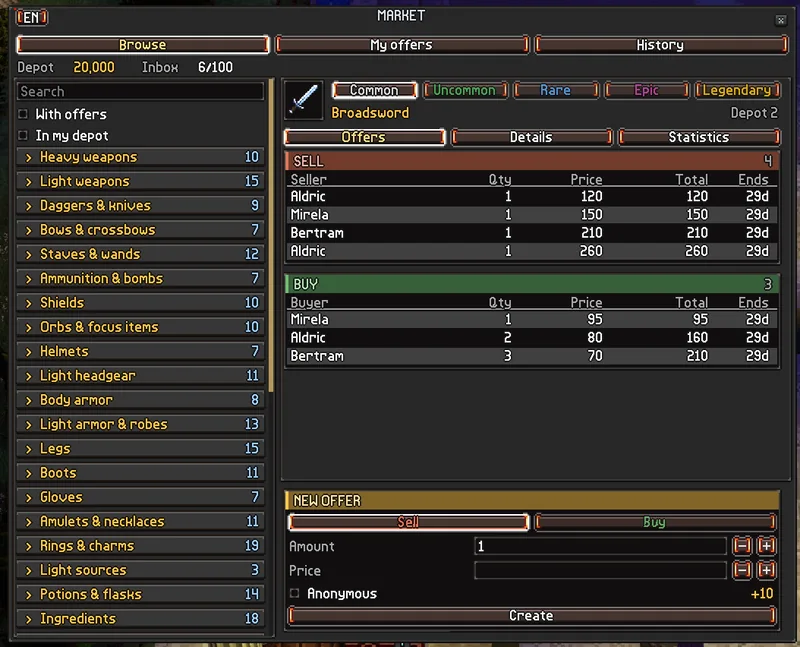
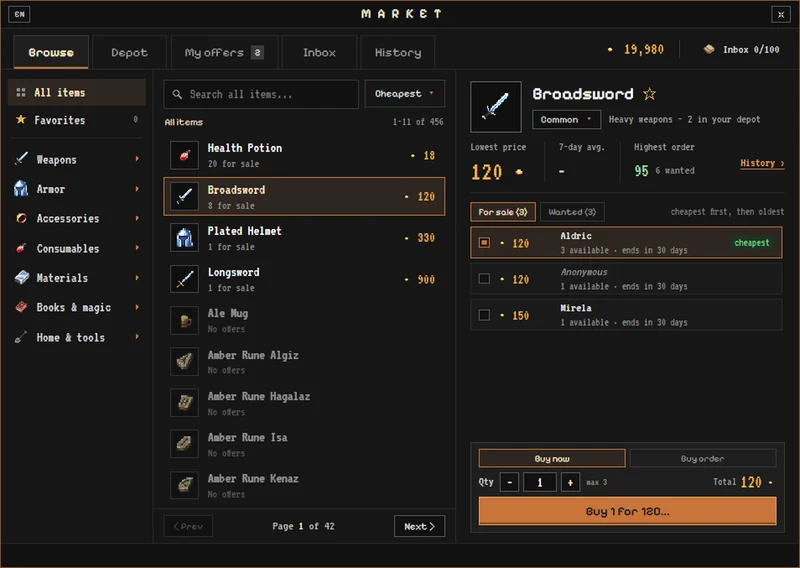
Client 0.0.20: the new Market in the showcase, fallback numbers, highlights and news

diff --git a/src/index.html b/src/index.html
@@ -52,7 +52,7 @@
           <a href="https://github.com/launcher-client-dist/dist/releases/latest" target="_blank" rel="noopener" class="hidden sm:flex items-center gap-2 px-3 py-1.5 rounded-full bg-panel border border-border text-xs font-medium hover:border-gold/50 transition-colors" title="Latest client release" data-i18n-attr="title:pill.title">
             <span class="w-2.5 h-2.5 rounded-full bg-success shrink-0" aria-hidden="true"></span>
             <span class="text-txt-primary font-semibold" data-i18n="pill.client">Client</span>
-            <span class="text-txt-muted font-mono">v<span data-rel="clientVersion">0.0.19</span></span>
+            <span class="text-txt-muted font-mono">v<span data-rel="clientVersion">0.0.20</span></span>
           </a>
 
           <button type="button" id="lang-toggle" class="px-2.5 py-2 rounded-lg bg-panel border border-border text-xs font-mono font-semibold text-txt-secondary hover:text-txt-primary hover:border-gold/50 transition-colors" aria-label="Mudar para português" data-i18n-attr="aria-label:lang.switch" data-i18n="lang.code">PT</button>
@@ -82,7 +82,7 @@
 
         <div class="mt-5 p-3 rounded-lg bg-panel border border-border flex items-center justify-between">
           <span class="text-xs text-txt-secondary" data-i18n="pill.title">Latest client release</span>
-          <span class="flex items-center gap-1.5 text-xs font-medium"><span class="w-2.5 h-2.5 rounded-full bg-success" aria-hidden="true"></span><span class="font-mono text-txt-primary">v<span data-rel="clientVersion">0.0.19</span></span></span>
+          <span class="flex items-center gap-1.5 text-xs font-medium"><span class="w-2.5 h-2.5 rounded-full bg-success" aria-hidden="true"></span><span class="font-mono text-txt-primary">v<span data-rel="clientVersion">0.0.20</span></span></span>
         </div>
 
         <nav class="mt-6 flex flex-col gap-1.5" aria-label="Menu" data-i18n-attr="aria-label:menu.label">
@@ -92,7 +92,7 @@
           <a href="#media" data-close-drawer class="w-full px-4 py-3 rounded-lg font-medium text-txt-primary hover:bg-panel hover:text-gold transition-colors flex items-center justify-between"><span data-i18n="nav.media">Media</span><span class="text-xs text-txt-muted" aria-hidden="true">→</span></a>
           <a href="#how-to-play" data-close-drawer class="w-full px-4 py-3 rounded-lg font-medium text-txt-primary hover:bg-panel hover:text-gold transition-colors flex items-center justify-between"><span data-i18n="nav.how">How to play</span><span class="text-xs text-txt-muted" aria-hidden="true">→</span></a>
           <a href="#requirements" data-close-drawer class="w-full px-4 py-3 rounded-lg font-medium text-txt-primary hover:bg-panel hover:text-gold transition-colors flex items-center justify-between"><span data-i18n="nav.req">Requirements</span><span class="text-xs text-txt-muted" aria-hidden="true">→</span></a>
-          <a href="https://github.com/launcher-client-dist/dist/releases" target="_blank" rel="noopener" class="w-full px-4 py-3 rounded-lg font-medium text-txt-primary hover:bg-panel hover:text-gold transition-colors flex items-center justify-between"><span data-i18n="nav.patches">Patch notes</span><span class="px-2 py-0.5 text-[10px] rounded bg-gold/20 text-gold font-mono">v<span data-rel="clientVersion">0.0.19</span></span></a>
+          <a href="https://github.com/launcher-client-dist/dist/releases" target="_blank" rel="noopener" class="w-full px-4 py-3 rounded-lg font-medium text-txt-primary hover:bg-panel hover:text-gold transition-colors flex items-center justify-between"><span data-i18n="nav.patches">Patch notes</span><span class="px-2 py-0.5 text-[10px] rounded bg-gold/20 text-gold font-mono">v<span data-rel="clientVersion">0.0.20</span></span></a>
         </nav>
       </div>
 
@@ -116,7 +116,7 @@
           <!-- Left: pitch + download -->
           <div class="lg:col-span-5 min-w-0">
             <div class="inline-flex items-center gap-2 px-2.5 py-1 rounded bg-teal/15 border border-teal/40 text-teal font-mono text-xs mb-4">
-              <span>● <span data-i18n="hero.badge">CLIENT</span> v<span data-rel="clientVersion">0.0.19</span> · <span data-i18n="hero.badge2">100% FREE</span></span>
+              <span>● <span data-i18n="hero.badge">CLIENT</span> v<span data-rel="clientVersion">0.0.20</span> · <span data-i18n="hero.badge2">100% FREE</span></span>
             </div>
             <h1 class="type-h1 text-3xl sm:text-5xl text-txt-primary leading-tight mb-4" data-i18n="hero.title">YOUR ADVENTURE AWAITS IN OPENGEA.</h1>
             <p class="text-sm sm:text-base text-txt-secondary mb-6 leading-relaxed" data-i18n-html="hero.lead">Download the <span data-rel="launcherSize">66 MB</span> Opengea launcher: it installs the Opengea client, keeps it on the latest build and verifies your files. No .NET install, no admin rights.</p>
@@ -128,16 +128,16 @@
             <!-- Latest patch highlights -->
             <div class="rounded-xl bg-panel border border-border p-4 space-y-2.5 text-xs">
               <div class="font-mono uppercase text-gold font-semibold flex items-center justify-between gap-3">
-                <span data-i18n="patch.title">Latest in v0.0.19</span>
+                <span data-i18n="patch.title">Latest in v0.0.20</span>
                 <a href="https://github.com/launcher-client-dist/dist/releases" target="_blank" rel="noopener" class="text-teal hover:underline normal-case shrink-0" data-i18n="patch.all">Full changelog →</a>
               </div>
               <div class="flex items-start gap-2 text-txt-secondary">
-                <span class="tag bg-warning/15 text-warning" data-i18n="tag.fixed">FIXED</span>
-                <span data-i18n="patch.1">Item pictures in the Market</span>
+                <span class="tag bg-success/15 text-success" data-i18n="tag.new">NEW</span>
+                <span data-i18n="patch.1">A brand-new Market</span>
               </div>
               <div class="flex items-start gap-2 text-txt-secondary">
                 <span class="tag bg-teal/15 text-teal" data-i18n="tag.improved">IMPROVED</span>
-                <span data-i18n="patch.2">Client connectivity and stability</span>
+                <span data-i18n="patch.2">Item information and interface polish</span>
               </div>
               <div class="flex items-start gap-2 text-txt-secondary">
                 <span class="tag bg-teal/15 text-teal" data-i18n="tag.improved">IMPROVED</span>
@@ -190,7 +190,7 @@
                   <div class="flex flex-col xl:flex-row xl:items-center justify-between gap-4 pt-2 border-t border-border">
                     <div class="flex-1 min-w-0">
                       <div class="flex items-start justify-between gap-3 text-xs font-mono mb-1.5">
-                        <span id="vg-status" class="text-txt-primary font-semibold min-w-0" aria-live="polite">Client 0.0.19 · Ready to play</span>
+                        <span id="vg-status" class="text-txt-primary font-semibold min-w-0" aria-live="polite">Client 0.0.20 · Ready to play</span>
                         <span class="text-success shrink-0" data-i18n="launcher.synced">100% verified</span>
                       </div>
                       <div class="w-full h-2.5 rounded-full bg-bg border border-border overflow-hidden" aria-hidden="true">
@@ -237,13 +237,13 @@
                 <p class="text-xs text-txt-secondary leading-relaxed" data-i18n="market.f4.text">You pay with the gold in your depot and collect in your inbox. A trade goes through whole or not at all.</p>
               </li>
             </ul>
-            <p class="mt-8 text-xs font-mono text-txt-muted" data-i18n-html="market.note">In client v<span data-rel="clientVersion">0.0.19</span> : stand at any depot and press Market in the top bar.</p>
+            <p class="mt-8 text-xs font-mono text-txt-muted" data-i18n-html="market.note">In client v<span data-rel="clientVersion">0.0.20</span> : stand at any depot and press Market in the top bar.</p>
           </div>
           <figure class="lg:col-span-7 min-w-0">
             <a href="assets/img/shot-market-full.webp" target="_blank" rel="noopener" class="block rounded-xl overflow-hidden border border-border shadow-card hover:border-gold/50 transition-colors">
-              <img src="assets/img/shot-market-800.webp" srcset="assets/img/shot-market-800.webp 800w, assets/img/shot-market-full.webp 1054w" sizes="(min-width: 1024px) 700px, 100vw" width="1054" height="852" loading="lazy" alt="The Market window: sell and buy offers for the Broadsword, the item categories and the new offer form." data-i18n-attr="alt:market.alt" class="w-full h-auto block" />
+              <img src="assets/img/shot-market-800.webp" srcset="assets/img/shot-market-800.webp 800w, assets/img/shot-market-full.webp 1240w" sizes="(min-width: 1024px) 700px, 100vw" width="1240" height="880" loading="lazy" alt="The Market window: the item list by category, the Broadsword with its offers and the buy panel." data-i18n-attr="alt:market.alt" class="w-full h-auto block" />
             </a>
-            <figcaption class="mt-3 text-xs text-txt-muted" data-i18n="market.caption">In game: the Broadsword's book, with four sellers and three buyers.</figcaption>
+            <figcaption class="mt-3 text-xs text-txt-muted" data-i18n="market.caption">In game: the Broadsword in Browse, with three offers and the buy panel.</figcaption>
           </figure>
         </div>
       </section>
@@ -267,13 +267,13 @@
             <article class="group relative rounded-xl bg-panel border border-border overflow-hidden shadow-card card-interactive flex flex-col justify-between">
               <div>
                 <div class="h-44 relative overflow-hidden border-b border-border">
-                  <img src="assets/img/shot-charselect-800.webp" width="800" height="450" loading="lazy" alt="" class="w-full h-full object-cover" />
+                  <img src="assets/img/shot-market-800.webp" width="800" height="568" loading="lazy" alt="" class="w-full h-full object-cover" />
                   <span class="absolute top-3 left-3 px-2.5 py-1 rounded-md border text-gold border-gold/40 bg-gold/10 text-[11px] font-semibold uppercase tracking-wider backdrop-blur-sm" data-i18n="cat.update">Update</span>
                 </div>
                 <div class="p-5 sm:p-6">
-                  <div class="text-xs font-mono text-txt-muted mb-2"><time datetime="2026-10-29">Oct 29, 2026</time> · <span data-i18n="news.client">Game client</span></div>
-                  <h3 class="type-h3 text-lg text-txt-primary mb-2 group-hover:text-gold transition-colors" data-i18n="news.1.title">Connection improvements</h3>
-                  <p class="text-sm text-txt-secondary" data-i18n="news.1.text">Client v0.0.18 brings general adjustments to connectivity and stability.</p>
+                  <div class="text-xs font-mono text-txt-muted mb-2"><time datetime="2026-10-30">Oct 30, 2026</time> · <span data-i18n="news.client">Game client</span></div>
+                  <h3 class="type-h3 text-lg text-txt-primary mb-2 group-hover:text-gold transition-colors" data-i18n="news.1.title">The new Market is here</h3>
+                  <p class="text-sm text-txt-secondary" data-i18n="news.1.text">Client v0.0.20 brings a brand-new Market: browse every item, buy from other players, place buy orders and sell your own, right from your depot.</p>
                 </div>
               </div>
               <div class="px-5 sm:px-6 pb-5 pt-2 flex items-center justify-between text-xs font-semibold text-teal">
@@ -372,7 +372,7 @@
                 <span class="type-h1 text-3xl text-border select-none" aria-hidden="true">02</span>
               </div>
               <h3 class="type-h3 text-lg text-txt-primary mb-2" data-i18n="how.2.title">2. Open it and install</h3>
-              <p class="text-sm text-txt-secondary" data-i18n-html="how.2.text">It installs itself for your user (no admin), then downloads client v<span data-rel="clientVersion">0.0.19</span> (<span data-rel="clientSize">488 MB</span>) and checks it against its SHA-256.</p>
+              <p class="text-sm text-txt-secondary" data-i18n-html="how.2.text">It installs itself for your user (no admin), then downloads client v<span data-rel="clientVersion">0.0.20</span> (<span data-rel="clientSize">662 MB</span>) and checks it against its SHA-256.</p>
             </li>
             <li class="rounded-xl bg-panel border border-border p-6 sm:p-8 relative">
               <div class="flex items-center justify-between mb-6">
@@ -427,11 +427,11 @@
           <div class="rounded-xl bg-panel border border-gold/40 p-6 sm:p-8 relative shadow-card">
             <div class="flex items-center justify-between gap-3 pb-4 mb-6 border-b border-border">
               <h3 class="type-h3 text-lg text-gold" data-i18n="req.client">Game client</h3>
-              <span class="px-2.5 py-1 rounded bg-gold/15 border border-gold/40 text-xs font-mono text-gold">v<span data-rel="clientVersion">0.0.19</span></span>
+              <span class="px-2.5 py-1 rounded bg-gold/15 border border-gold/40 text-xs font-mono text-gold">v<span data-rel="clientVersion">0.0.20</span></span>
             </div>
             <dl class="space-y-4 text-sm">
               <div class="flex justify-between gap-4"><dt class="text-txt-secondary" data-i18n="req.base">Game client</dt><dd class="text-txt-primary font-medium text-right" data-i18n="req.baseValue">Opengea 3.2.6</dd></div>
-              <div class="flex justify-between gap-4"><dt class="text-txt-secondary" data-i18n="req.download">Download</dt><dd class="text-txt-primary font-medium text-right" data-rel="clientSize">488 MB</dd></div>
+              <div class="flex justify-between gap-4"><dt class="text-txt-secondary" data-i18n="req.download">Download</dt><dd class="text-txt-primary font-medium text-right" data-rel="clientSize">662 MB</dd></div>
               <div class="flex justify-between gap-4"><dt class="text-txt-secondary" data-i18n="req.installed">Installed size</dt><dd class="text-txt-primary font-medium text-right" data-rel="clientInstalled">757 MB</dd></div>
               <div class="flex justify-between gap-4"><dt class="text-txt-secondary" data-i18n="req.free">Free space to install</dt><dd class="text-txt-primary font-medium text-right" data-i18n="req.freeValue">≈ 1.3 GB (during install)</dd></div>
               <div class="flex justify-between gap-4"><dt class="text-txt-secondary" data-i18n="req.updates">Updates</dt><dd class="text-txt-primary font-medium text-right" data-i18n="req.updatesValue">Automatic, through the launcher</dd></div>
@@ -450,7 +450,7 @@
           <div class="relative z-10 max-w-[640px]">
             <div class="inline-flex items-center gap-2 px-3 py-1 rounded-full bg-success/15 border border-success/40 text-success text-xs font-medium mb-4">
               <span class="w-2 h-2 rounded-full bg-success animate-pulse" aria-hidden="true"></span>
-              <span data-i18n-html="community.badge">Launcher v<span data-rel="launcherVersion">0.3.3</span> · Client v<span data-rel="clientVersion">0.0.19</span></span>
+              <span data-i18n-html="community.badge">Launcher v<span data-rel="launcherVersion">0.3.3</span> · Client v<span data-rel="clientVersion">0.0.20</span></span>
             </div>
             <h2 class="type-h2 text-2xl sm:text-4xl text-txt-primary mb-3" data-i18n="community.title">Follow every release on GitHub</h2>
             <p class="text-txt-secondary text-sm sm:text-base mb-8" data-i18n="community.text">Every launcher and client build is published openly on GitHub with its notes. The launcher picks up new versions by itself; this is where you can read what changed.</p>

diff --git a/src/app.js b/src/app.js
@@ -8,14 +8,14 @@
   const CLIENT_REPO = 'launcher-client-dist/dist';
   const DOWNLOAD_URL = `https://github.com/${LAUNCHER_REPO}/releases/latest/download/ClientLauncher.exe`;
 
-  // Fallback release data (launcher v0.3.3, client v0.0.19), refreshed from GitHub on load.
+  // Fallback release data (launcher v0.3.3, client v0.0.20), refreshed from GitHub on load.
   const release = {
     launcherVersion: '0.3.3',
     launcherBytes: 66403800,
[1 lines of base64/hex data omitted]
-    clientVersion: '0.0.19',
-    clientBytes: 488992178,
-    clientInstalledBytes: 761277575
+    clientVersion: '0.0.20',
+    clientBytes: 661944733,
+    clientInstalledBytes: 1127212816
   };
 
   /* ------------------------------------------------------------------ */
@@ -71,10 +71,10 @@
       'hero.badge2': '100% FREE',
       'hero.title': 'YOUR ADVENTURE AWAITS IN OPENGEA.',
       'hero.lead': 'Download the <span data-rel="launcherSize"></span> Opengea launcher: it installs the Opengea client, keeps it on the latest build and verifies your files. No .NET install, no admin rights.',
-      'patch.title': 'Latest in v0.0.19',
+      'patch.title': 'Latest in v0.0.20',
       'patch.all': 'Full changelog →',
-      'patch.1': 'Item pictures in the Market',
-      'patch.2': 'Client connectivity and stability',
+      'patch.1': 'A brand-new Market',
+      'patch.2': 'Item information and interface polish',
       'patch.3': 'General fixes and polish',
       'tag.new': 'NEW',
       'tag.improved': 'IMPROVED',
@@ -112,8 +112,8 @@
       'news.team': 'Opengea Team',
       'news.read': 'Read the release notes',
       'news.readLauncher': 'See launcher releases',
-      'news.1.title': 'Connection improvements',
-      'news.1.text': 'Client v0.0.18 brings general adjustments to connectivity and stability.',
+      'news.1.title': 'The new Market is here',
+      'news.1.text': 'Client v0.0.20 brings a brand-new Market: browse every item, buy from other players, place buy orders and sell your own, right from your depot.',
       'news.2.title': 'Launcher v0.3.3: pick your language',
       'news.2.text': 'A new language button at the top of the launcher switches the launcher and the game. It updates itself the next time it opens.',
       'news.3.title': 'An active community',
@@ -132,8 +132,8 @@
       'market.f4.title': 'Safe from start to finish',
       'market.f4.text': 'You pay with the gold in your depot and collect in your inbox. A trade goes through whole or not at all.',
       'market.note': 'In client v<span data-rel="clientVersion"></span>: stand at any depot and press Market in the top bar.',
-      'market.alt': 'The Market window: sell and buy offers for the Broadsword, the item categories and the new offer form.',
-      'market.caption': "In game: the Broadsword's book, with four sellers and three buyers.",
+      'market.alt': 'The Market window: the item list by category, the Broadsword with its offers and the buy panel.',
+      'market.caption': 'In game: the Broadsword in Browse, with three offers and the buy panel.',
       'media.eyebrow': 'Community & lab',
       'media.title': 'Media',
       'media.hint': 'Click any image to view it full size',
@@ -254,10 +254,10 @@
       'hero.badge2': '100% GRATUITO',
       'hero.title': 'SUA AVENTURA TE ESPERA EM OPENGEA.',
       'hero.lead': 'Baixe o launcher do Opengea (<span data-rel="launcherSize"></span>): ele instala o cliente Opengea, mantém tudo na versão mais recente e verifica seus arquivos. Sem instalar .NET, sem precisar de administrador.',
-      'patch.title': 'Novidades da v0.0.19',
+      'patch.title': 'Novidades da v0.0.20',
       'patch.all': 'Changelog completo →',
-      'patch.1': 'Imagens dos itens no Market',
-      'patch.2': 'Conectividade e estabilidade do cliente',
+      'patch.1': 'Um Market totalmente novo',
+      'patch.2': 'Informações dos itens e ajustes na interface',
       'patch.3': 'Correções gerais e ajustes',
       'tag.new': 'NOVO',
       'tag.improved': 'MELHORIA',
@@ -295,8 +295,8 @@
       'news.team': 'Equipe Opengea',
       'news.read': 'Ler as notas da versão',
       'news.readLauncher': 'Ver versões do launcher',
-      'news.1.title': 'Melhorias de conexão',
-      'news.1.text': 'O cliente v0.0.18 traz ajustes gerais na conectividade e na estabilidade do cliente.',
+      'news.1.title': 'O novo Market chegou',
+      'news.1.text': 'O cliente v0.0.20 traz um Market totalmente novo: veja todos os itens, compre de outros jogadores, crie ordens de compra e venda os seus, direto do depot.',
       'news.2.title': 'Launcher v0.3.3: escolha seu idioma',
       'news.2.text': 'Um novo botão de idioma no topo do launcher troca o idioma do launcher e do jogo. Ele se atualiza sozinho da próxima vez que abrir.',
       'news.3.title': 'Comunidade ativa',
@@ -315,8 +315,8 @@
       'market.f4.title': 'Seguro do início ao fim',
       'market.f4.text': 'Você paga com o gold do depot e retira no inbox. Um negócio acontece inteiro ou não acontece.',
       'market.note': 'No cliente v<span data-rel="clientVersion"></span>: fique em qualquer depot e aperte Market na barra de cima.',
-      'market.alt': 'A janela do Market: ofertas de venda e de compra da Broadsword, as categorias de itens e o formulário de nova oferta.',
-      'market.caption': 'No jogo: o livro da Broadsword, com quatro vendedores e três compradores.',
+      'market.alt': 'A janela do Market: a lista de itens por categoria, a Broadsword com suas ofertas e o painel de compra.',
+      'market.caption': 'No jogo: a Broadsword na aba Browse, com três ofertas e o painel de compra.',
       'media.eyebrow': 'Comunidade e laboratório',
       'media.title': 'Mídia',
       'media.hint': 'Clique em uma imagem para ver em tamanho real',
